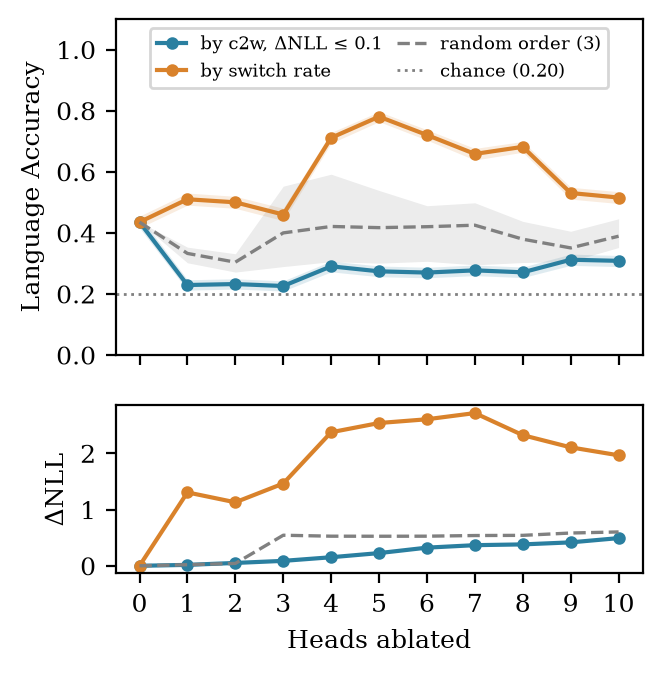
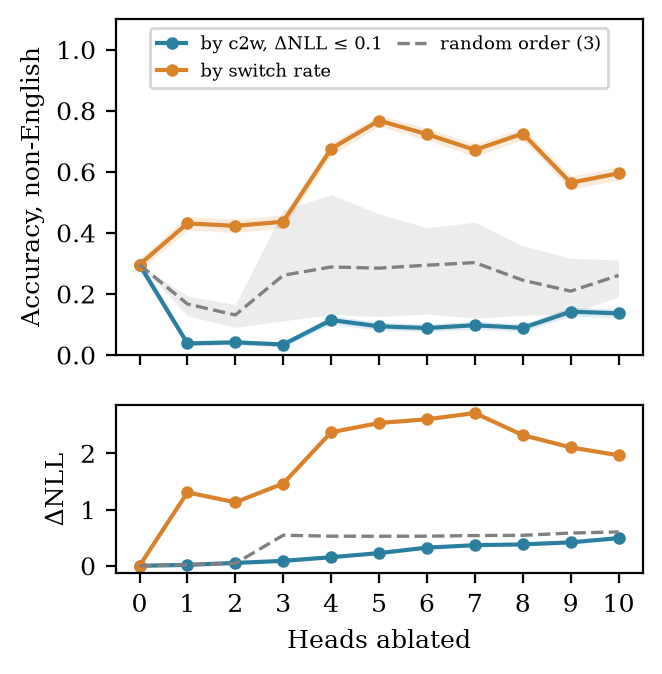
Plot fig 1b on non-English prompts and add mean ablation to table 1b
Overall accuracy bottoms out near 0.20 because English prompts stay English.

diff --git a/rerun/tables.py b/rerun/tables.py
@@ -66,15 +66,20 @@ def head_rows(t, heads):
 
 def table1(t):
     header = ["Head", "SR", "95% CI", "c→w", "w→c", "ΔNLL"]
+    mean_path = R / "gpt2-mean-ablation" / "summary.json"
+    mean_t = json.load(open(mean_path))["table"] if mean_path.exists() else {}
     mu = mean(v["full"]["sr"] for v in t.values())
     out = block("Table 1a: top five GPT-2 heads by switch rate",
                 f"Same selection rule as the paper, 2,500 prompts. Population mean SR {mu:.3f}. Only L2H5 mostly flips "
                 "correct→wrong; the rest flip wrong→correct about as often or more, and L0H10 / L0H0 raise LM loss by "
                 "more than 1 nat.", header, head_rows(t, ranked(t, "sr")[:5]))
+    heads = ranked(t, "c2w", 0.1)[:5] + ["L6H1"]
+    rows = [r + [f3(mean_t[h]["c2w"]) if h in mean_t else "–"] for r, h in zip(head_rows(t, heads), heads)]
     out += block("Table 1b: top five GPT-2 heads by correct→wrong, ΔNLL ≤ 0.1",
                  "Suggested replacement: heads that move correct outputs to the wrong language without much LM loss "
-                 "change. L6H1, the paper's top head, for comparison.",
-                 header, head_rows(t, ranked(t, "c2w", 0.1)[:5] + ["L6H1"]))
+                 "change. L6H1, the paper's top head, for comparison. The last column is c→w under mean ablation "
+                 "(Chaewon, results/gpt2-mean-ablation): only L6H10 keeps most of its effect.",
+                 header + ["c→w, mean abl."], rows)
     return out
 
 

diff --git a/rerun/figures.py b/rerun/figures.py
@@ -48,7 +48,7 @@ def curves(name):
     base_nll = mean(lab["base"]["nll"].values())
 
     def point(cond):
-        correct = [int(same(x, e)) for x, e in zip(lab[cond]["labels"], expected)]
+        correct = [int(same(x, e)) for x, e in zip(lab[cond]["labels"], expected) if e != "en"]
         return mean(correct), ci(correct), mean(lab[cond]["nll"].values()) - base_nll
 
     ks = list(range(11))
@@ -65,9 +65,8 @@ def curves(name):
     top.plot(ks, rand.mean(0), "--", color="gray", lw=1.2, label="random order (3)")
     top.fill_between(ks, rand.min(0), rand.max(0), color="gray", alpha=0.15, lw=0)
     bot.plot(ks, np.mean([[p[2] for p in series[f"random{s}"]] for s in range(3)], 0), "--", color="gray", lw=1.2)
-    top.axhline(0.2, color="gray", ls=":", lw=1, label="chance (0.20)")
     top.set_ylim(0, 1.1)
-    top.set_ylabel("Language Accuracy")
+    top.set_ylabel("Accuracy, non-English")
     top.legend(fontsize=6.5, loc="upper center", ncol=2, handlelength=1.6, columnspacing=0.8)
     bot.set_ylabel("ΔNLL")
     bot.set_xlabel("Heads ablated")

diff --git a/rerun/TABLES.md b/rerun/TABLES.md
@@ -25,24 +25,24 @@ L2H5 & 0.298 & {[0.281, 0.316]} & 0.196 & 0.024 & $+$0.033 \\
 
 ## Table 1b: top five GPT-2 heads by correct→wrong, ΔNLL ≤ 0.1
 
-Suggested replacement: heads that move correct outputs to the wrong language without much LM loss change. L6H1, the paper's top head, for comparison.
+Suggested replacement: heads that move correct outputs to the wrong language without much LM loss change. L6H1, the paper's top head, for comparison. The last column is c→w under mean ablation (Chaewon, results/gpt2-mean-ablation): only L6H10 keeps most of its effect.
 
-| Head | SR | 95% CI | c→w | w→c | ΔNLL |
-|---|---|---|---|---|---|
-| L6H10 | 0.250 | [0.234, 0.268] | 0.210 | 0.004 | +0.016 |
-| L2H5 | 0.298 | [0.281, 0.316] | 0.196 | 0.024 | +0.033 |
-| L4H8 | 0.235 | [0.219, 0.252] | 0.189 | 0.010 | +0.027 |
-| L2H3 | 0.282 | [0.265, 0.300] | 0.173 | 0.036 | +0.023 |
-| L8H6 | 0.212 | [0.198, 0.230] | 0.173 | 0.008 | +0.048 |
-| L6H1 | 0.038 | [0.031, 0.046] | 0.010 | 0.013 | +0.002 |
+| Head | SR | 95% CI | c→w | w→c | ΔNLL | c→w, mean abl. |
+|---|---|---|---|---|---|---|
+| L6H10 | 0.250 | [0.234, 0.268] | 0.210 | 0.004 | +0.016 | 0.177 |
+| L2H5 | 0.298 | [0.281, 0.316] | 0.196 | 0.024 | +0.033 | 0.057 |
+| L4H8 | 0.235 | [0.219, 0.252] | 0.189 | 0.010 | +0.027 | 0.057 |
+| L2H3 | 0.282 | [0.265, 0.300] | 0.173 | 0.036 | +0.023 | 0.010 |
+| L8H6 | 0.212 | [0.198, 0.230] | 0.173 | 0.008 | +0.048 | 0.083 |
+| L6H1 | 0.038 | [0.031, 0.046] | 0.010 | 0.013 | +0.002 | 0.006 |
 
 ```latex
-L6H10 & 0.250 & {[0.234, 0.268]} & 0.210 & 0.004 & $+$0.016 \\
-L2H5 & 0.298 & {[0.281, 0.316]} & 0.196 & 0.024 & $+$0.033 \\
-L4H8 & 0.235 & {[0.219, 0.252]} & 0.189 & 0.010 & $+$0.027 \\
-L2H3 & 0.282 & {[0.265, 0.300]} & 0.173 & 0.036 & $+$0.023 \\
-L8H6 & 0.212 & {[0.198, 0.230]} & 0.173 & 0.008 & $+$0.048 \\
-L6H1 & 0.038 & {[0.031, 0.046]} & 0.010 & 0.013 & $+$0.002 \\
+L6H10 & 0.250 & {[0.234, 0.268]} & 0.210 & 0.004 & $+$0.016 & 0.177 \\
+L2H5 & 0.298 & {[0.281, 0.316]} & 0.196 & 0.024 & $+$0.033 & 0.057 \\
+L4H8 & 0.235 & {[0.219, 0.252]} & 0.189 & 0.010 & $+$0.027 & 0.057 \\
+L2H3 & 0.282 & {[0.265, 0.300]} & 0.173 & 0.036 & $+$0.023 & 0.010 \\
+L8H6 & 0.212 & {[0.198, 0.230]} & 0.173 & 0.008 & $+$0.048 & 0.083 \\
+L6H1 & 0.038 & {[0.031, 0.046]} & 0.010 & 0.013 & $+$0.002 & 0.006 \\
 ```
 
 ## Table 2: cross-model comparison

diff --git a/rerun/RESULTS.md b/rerun/RESULTS.md
@@ -96,6 +96,12 @@ so it's fairer to compare L6H10 with the other heads than with 0.435. It's still
 The paper has L6H1 alone at 39.2% and the top 10 at 32.4% with monotonic degradation. Under true ablation the curve
 is not monotonic, and one head gets as low as the 10-head set does.
 
+Overall accuracy has a floor near 0.20, though: English prompts are a fifth of the set and stay English under every
+ablation here (0.99), so the paper's chance line at 0.20 is really that floor. On the non-English prompts alone,
+L6H10 takes accuracy from 0.296 to 0.038, i.e. it already removes almost every correct non-English continuation and
+there's little left for the other heads to remove. The rise after k=4 (0.09-0.14) is GPT-2 copying the prompt back,
+which langdetect counts as the right language. fig3_accuracy_curve plots the non-English accuracy.
+
 The multi-head run also recomputes base and the k=1 condition of every order (L6H10, L0H7, L0H10, L8H2, L2H10, L1H2)
 in a separate process. The detected labels match results/gpt2 on all 2,500 prompts for each, and dNLL is within 0.001.
 
@@ -109,6 +115,10 @@ the 144 heads correlates with the langdetect version at Spearman 0.994 or higher
 dNLL <= 0.1 heads under every detector, and the top five are the same heads. Across 200 random half splits of the
 prompts (stratified by language), c->w per head correlates at 0.976 between halves (5th percentile 0.969) and L6H10 is
 first in both halves every time. results/gpt2/robustness.md, from robustness.py.
+
+Of the five top c->w heads, only L6H10 holds up under Chaewon's mean ablation (PR #6): c->w 0.210 with zero ablation
+and 0.177 with mean ablation, while L2H5 and L4H8 drop to 0.057, L8H6 to 0.083 and L2H3 to 0.010. L6H10's LM loss
+change is also specific to non-English text: +0.001 on English and +0.011 to +0.029 on fr/de/es/it.
 
 # GPT-2 zh/ru, 2026-10-07
 

diff --git a/rerun/README.md b/rerun/README.md
@@ -25,7 +25,7 @@ python multi.py run --orders c2w-lowloss --out out/gpt2-multi-lowloss/gens.jsonl
 python multi.py report                 # after detect.py gpt2-multi
 python figures.py                      # fig 1a / 1b from results/
 python tables.py                       # TABLES.md, the paper tables from results/
-python robustness.py --gens <gpt2 gens.jsonl> --lid lid.176.bin   # other detectors, split halves
+python robustness.py --lid lid.176.bin  # other detectors and split halves on out/gpt2
 ```
 `--per-lang 25` matches the 125 prompts of qwen_experiment.py. `--layers` limits the sweep, e.g. `--layers 0,3,6,9,12,15,18,21`
 for the BLOOM layers sampled in bloom_experiment.py. `first_token_attn.py` computes each GPT-2 head's attention to the
